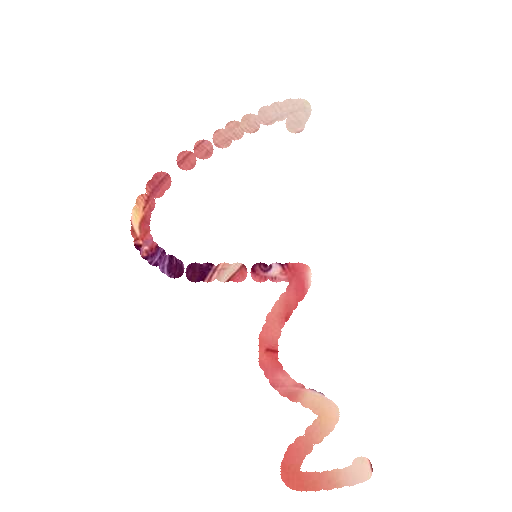
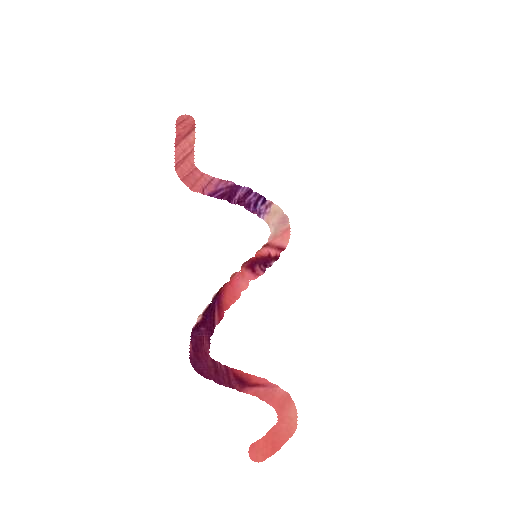
实现方法优化
现在不需要先保存jpg了，直接可以转化为三通道图像，透明区域纯黑

Changed region(s): [[0.25, 0.1875, 0.75, 0.9688]]

diff --git a/main_function.py b/main_function.py
@@ -50,7 +50,7 @@ class Image_Viewer(QMainWindow):
             return
 
         # Point 1: 生成与黑色部分对应的mask图像
-        mask = np.all(self.cv_img[:, :, :] < [10, 10, 10], axis=-1)
+        mask = np.all(self.cv_img[:, :, :] == [0, 0, 0], axis=-1)
 
         # Point 2: 将图片从三通道转为四通道
         self.cv_img = cv2.cvtColor(self.cv_img, cv2.COLOR_BGR2BGRA)
@@ -186,11 +186,10 @@ class Image_Viewer(QMainWindow):
         if self.filename == "":
             return
         self.last_img.append(self.cv_img)
+        self.cv_img = Subject.selectForeground(self.cv_img)
 
-        if Subject.selectForeground(self.cv_img):
-            self.cv_img = cv2.imdecode(np.fromfile("ToolImg/transparent_image.jpg", dtype=np.uint8), 1)
-            self.copy_img = self.cv_img
-            self.refreshShow(self.cv_img)
+        self.copy_img = self.cv_img
+        self.refreshShow(self.cv_img)
 
     def refreshShow(self, img):
         # 提取图像的通道和尺寸，用于将OpenCV下的image转换成Qimage

diff --git a/Subject.py b/Subject.py
@@ -45,18 +45,14 @@ def selectForeground(img):
 
             img[np.where(img[:, :, 3] == 0)] = [0, 0, 0, 0]
             img = cv2.cvtColor(img, cv2.COLOR_BGRA2BGR)
-            cv2.imwrite('ToolImg/transparent_image.jpg', img)
-
-            cv2.destroyAllWindows()
-            return True
-            break
+            return img
 
         elif key == 27:  # 按下 'Esc' 键退出
             break
 
     # 销毁窗口
     cv2.destroyAllWindows()
-    return False
+    return img
 
 
 def rectSelect(img):
